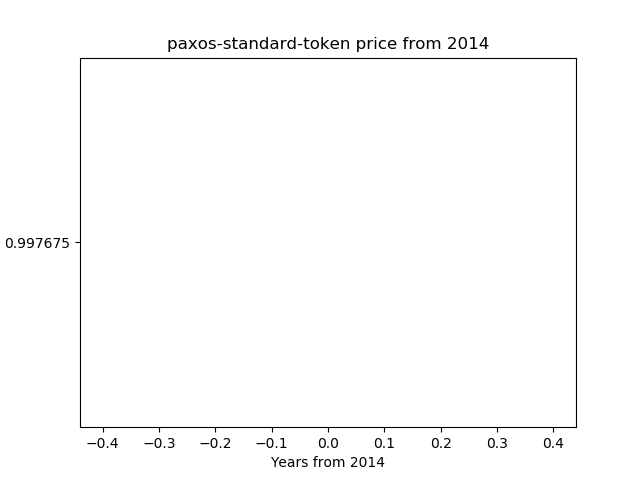
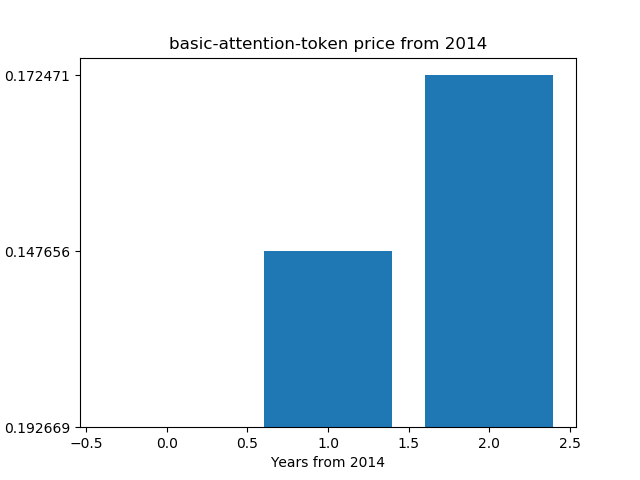
first commit

diff --git a/example.py b/example.py
@@ -10,7 +10,7 @@ from time import gmtime, strftime
 import matplotlib.pyplot as plt
 
 enddate = strftime("%Y%m%d", gmtime())
-r  = requests.get("https://coinmarketcap.com/currencies/paxos-standard-token/historical-data/?start=20140101&end={0}".format(enddate))
+r  = requests.get("https://coinmarketcap.com/currencies/basic-attention-token/historical-data/?start=20140101&end={0}".format(enddate))
 data = r.text
 
 soup = BeautifulSoup(data, "html.parser")
@@ -37,7 +37,7 @@ print(prices)
 
 x = list(range(0, len(prices)))
 
-plt.title('paxos-standard-token price from 2014')
+plt.title('basic-attention-token price from 2014')
 plt.ylabel('Price in USD')
 plt.xlabel('Years from 2014')
 plt.bar(x, prices)

diff --git a/README.md b/README.md
@@ -1,6 +1,6 @@
-# paxos-standard-token price chart 
+# basic-attention-token price chart 
 
-paxos-standard-token price chart (matplotlib, python)
+basic-attention-token price chart (matplotlib, python)
 
 https://pythonprogramminglanguage.com
 
